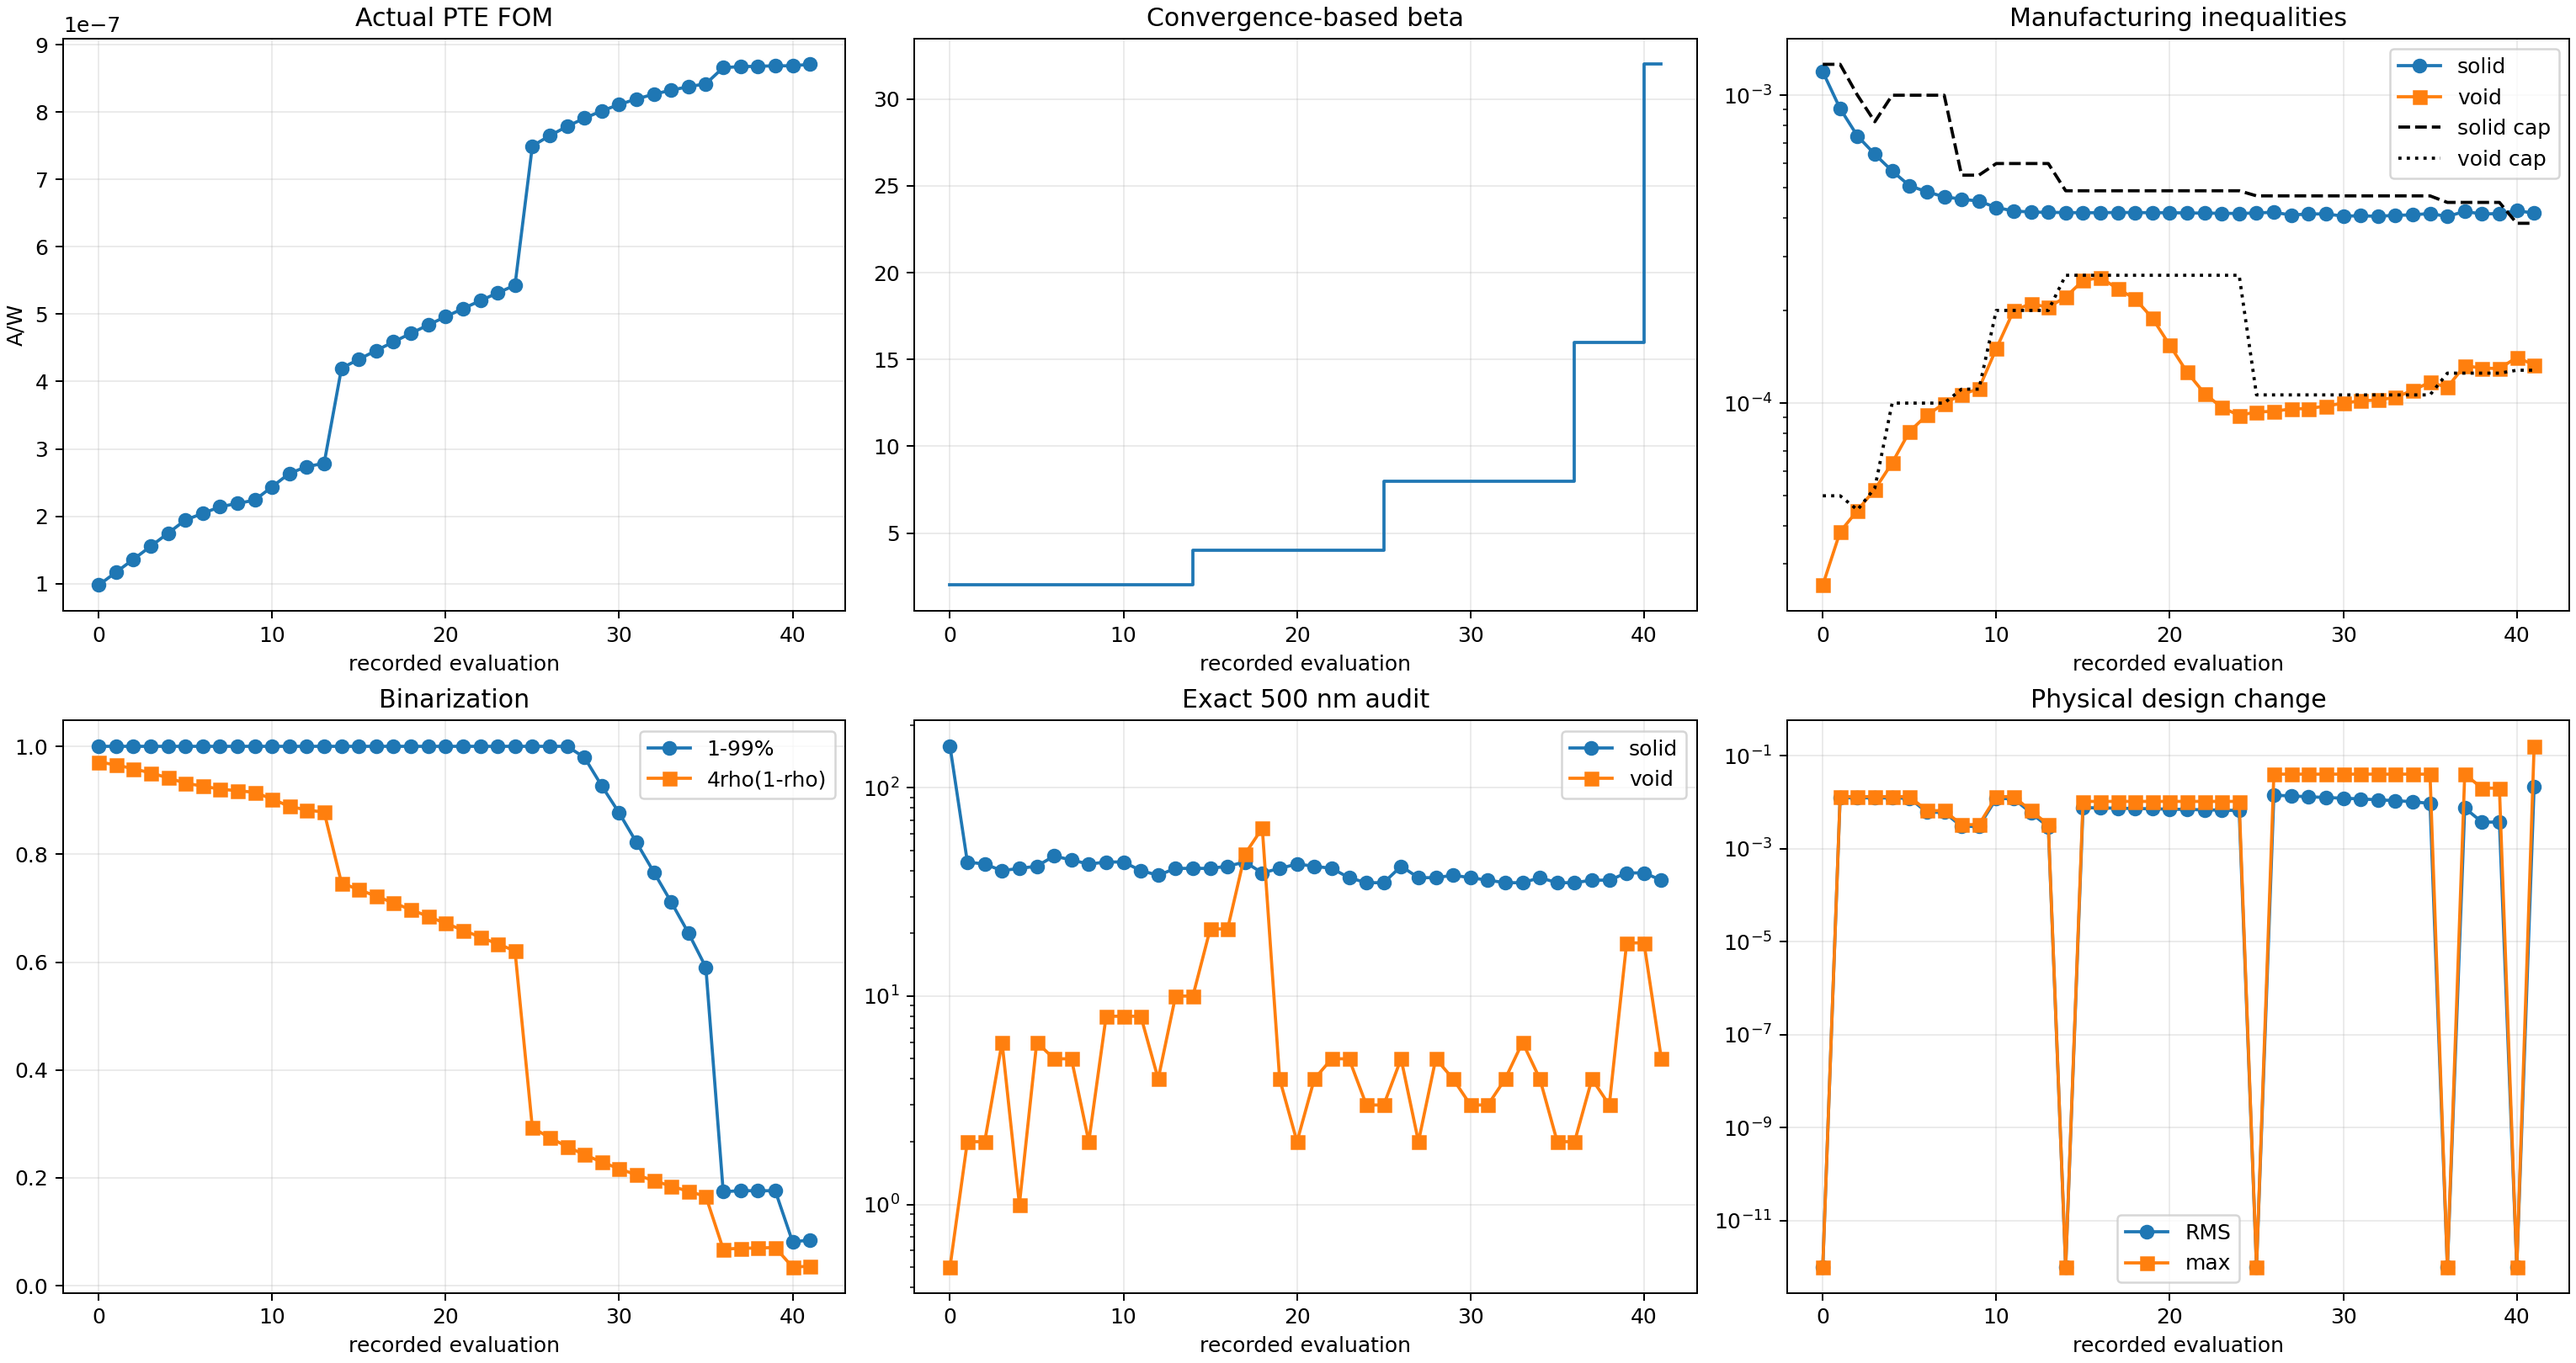
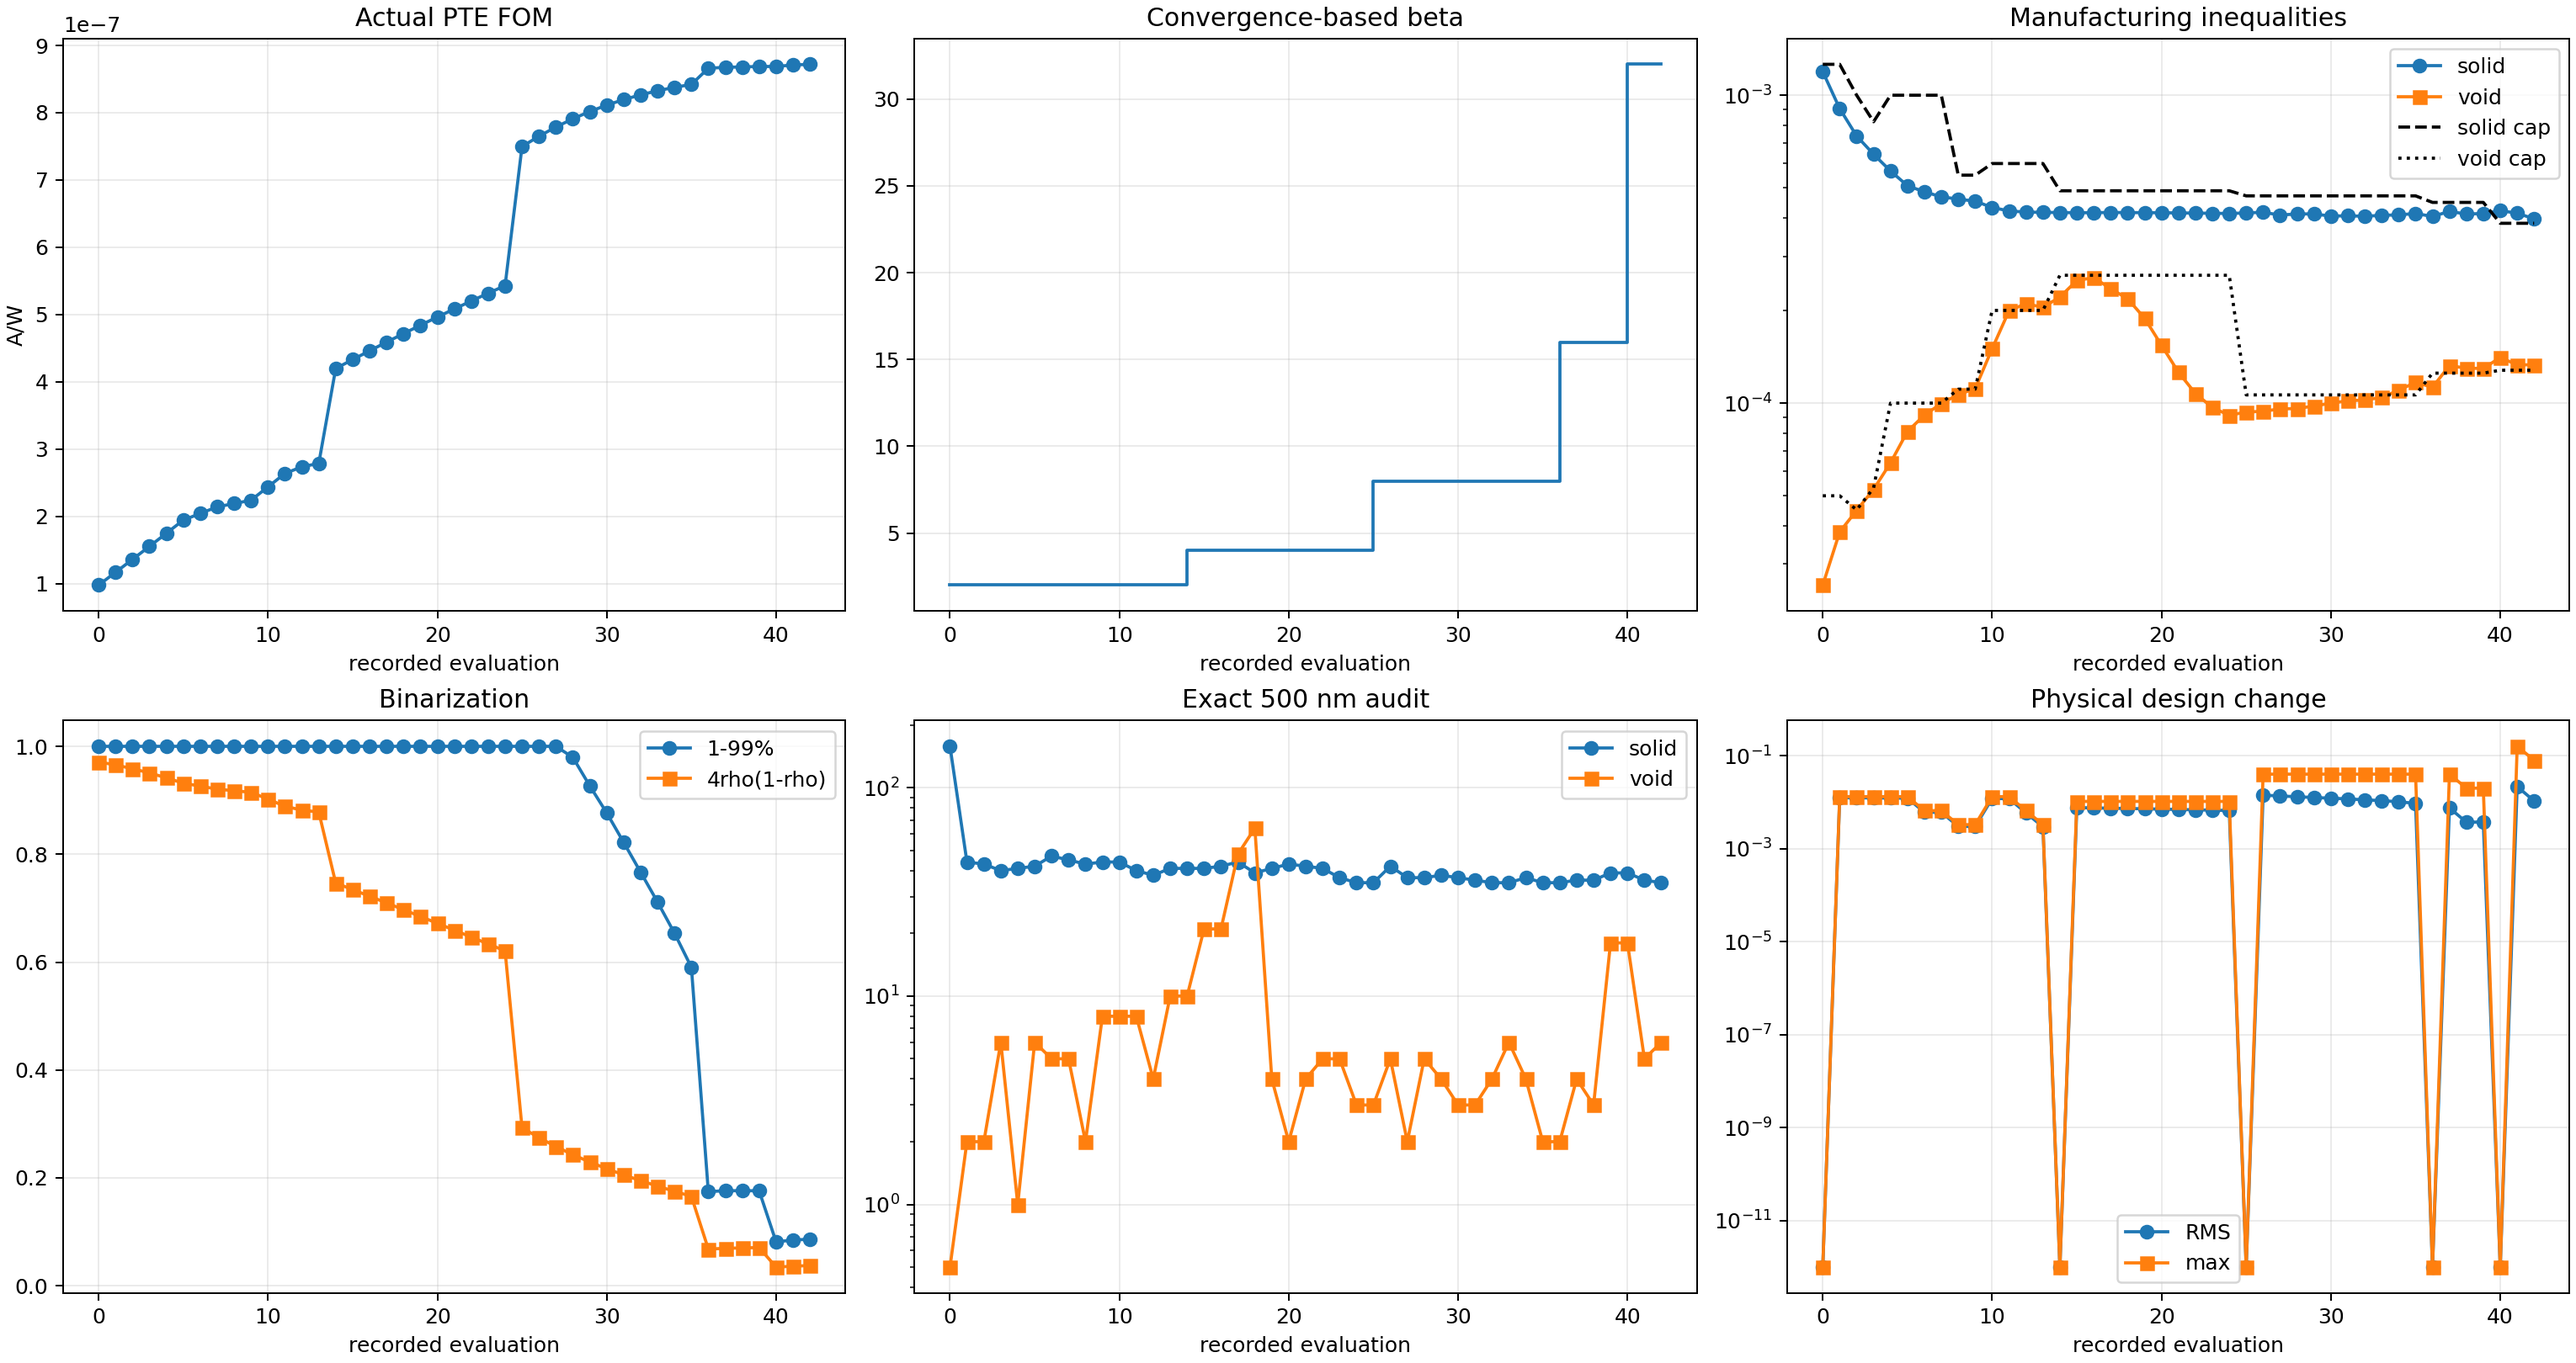
Record Run 005 run005_b032_s002_g038_accepted_mma

diff --git a/photothermal_pte/optimization_runs/run_005_lowbeta_topology_exploration_pilot/results/OPTIMIZATION_REPORT.md b/photothermal_pte/optimization_runs/run_005_lowbeta_topology_exploration_pilot/results/OPTIMIZATION_REPORT.md
@@ -2,12 +2,12 @@
 
 Status: `RUNNING_RUN005_FULL_BINARY_BETA_CONTINUATION`
 
-Current stage: beta=32, accepted stage iteration=1, global iteration=37.
+Current stage: beta=32, accepted stage iteration=2, global iteration=38.
 
 Constraint contract: `soft_disk_opening_500nm_from_iteration_zero_v5`.
 
-Actual FOM: `8.709825370155e-07 A/W`. Fixed-cap solid/void constraints: `4.136653e-04` / `1.331585e-04` with caps `3.837575e-04` / `1.278726e-04`.
+Actual FOM: `8.719784293117e-07 A/W`. Fixed-cap solid/void constraints: `3.968320e-04` / `1.331848e-04` with caps `3.837575e-04` / `1.278726e-04`.
 
-Exact 500 nm bad cells: solid `36`, void `5`. Stage convergence: `False` (need at least 6 accepted updates).
+Exact 500 nm bad cells: solid `35`, void `6`. Stage convergence: `False` (need at least 6 accepted updates).
 
 Beta advances only after the stage FOM/density plateau. The run is not complete until the projected-binary and exact 500 nm gates pass and a fresh thresholded-binary GPU/CUDA evaluation succeeds.
